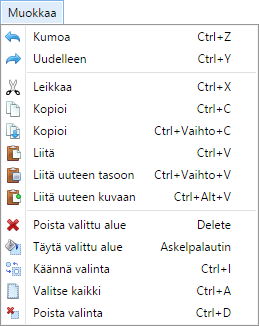
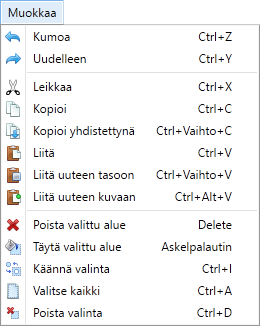
Pari pikku korjausta

diff --git a/content/valikkopalkki/muokkaa.md b/content/valikkopalkki/muokkaa.md
@@ -37,6 +37,10 @@ ulkopuolelle niin kauan kuin valinta on aktiivinen. [Tehosteet]({{< relref "teho
 	
 	Tämä on samanlainen kuin Leikkaa, mutta valittu alue jää aktiiviselle tasolle eikä valittua aluetta poisteta.
 	
+*	### Kopioi yhdistettynä
+	
+	Tämä on sama kuin Kopioi mutta kopioi valitun alueen yhdistettynä jokaiselta tasolta.
+	
 *	### Liitä
 	
 	Jos leikepöydällä on kuva, tämä komento liittää sen valitulle tasolle. Liitetyt pikselit tullaan valituksi ja <img style="vertical-align: middle;" src="/resurssit/tyokalut/moveselection.png" alt="Työkalut" />[Siirrä valintaa]({{< relref "siirtotyokalut.md" >}}) työkalu tulee 

diff --git a/content/jarjestelmavaatimukset.md b/content/jarjestelmavaatimukset.md
@@ -12,10 +12,10 @@ title = "Järjestelmävaatimukset"
 
 ### Vähimmäisvaatimukset
 
-*	Windows 7 SP1 tai uudempi (8, 8.1, 10)
-*	.NET Framework 4.6
+*	Windows 7 SP1 tai uudempi (8.1, 10)
+*	.NET Framework 4.7
 *	1GHz prosessori
-*	1 Gt RAM-muistia
+*	1Gt RAM-muistia
 *	1024 x 768 näytön resoluutio
 *	200+ Mt kiintolevytilaa
 
